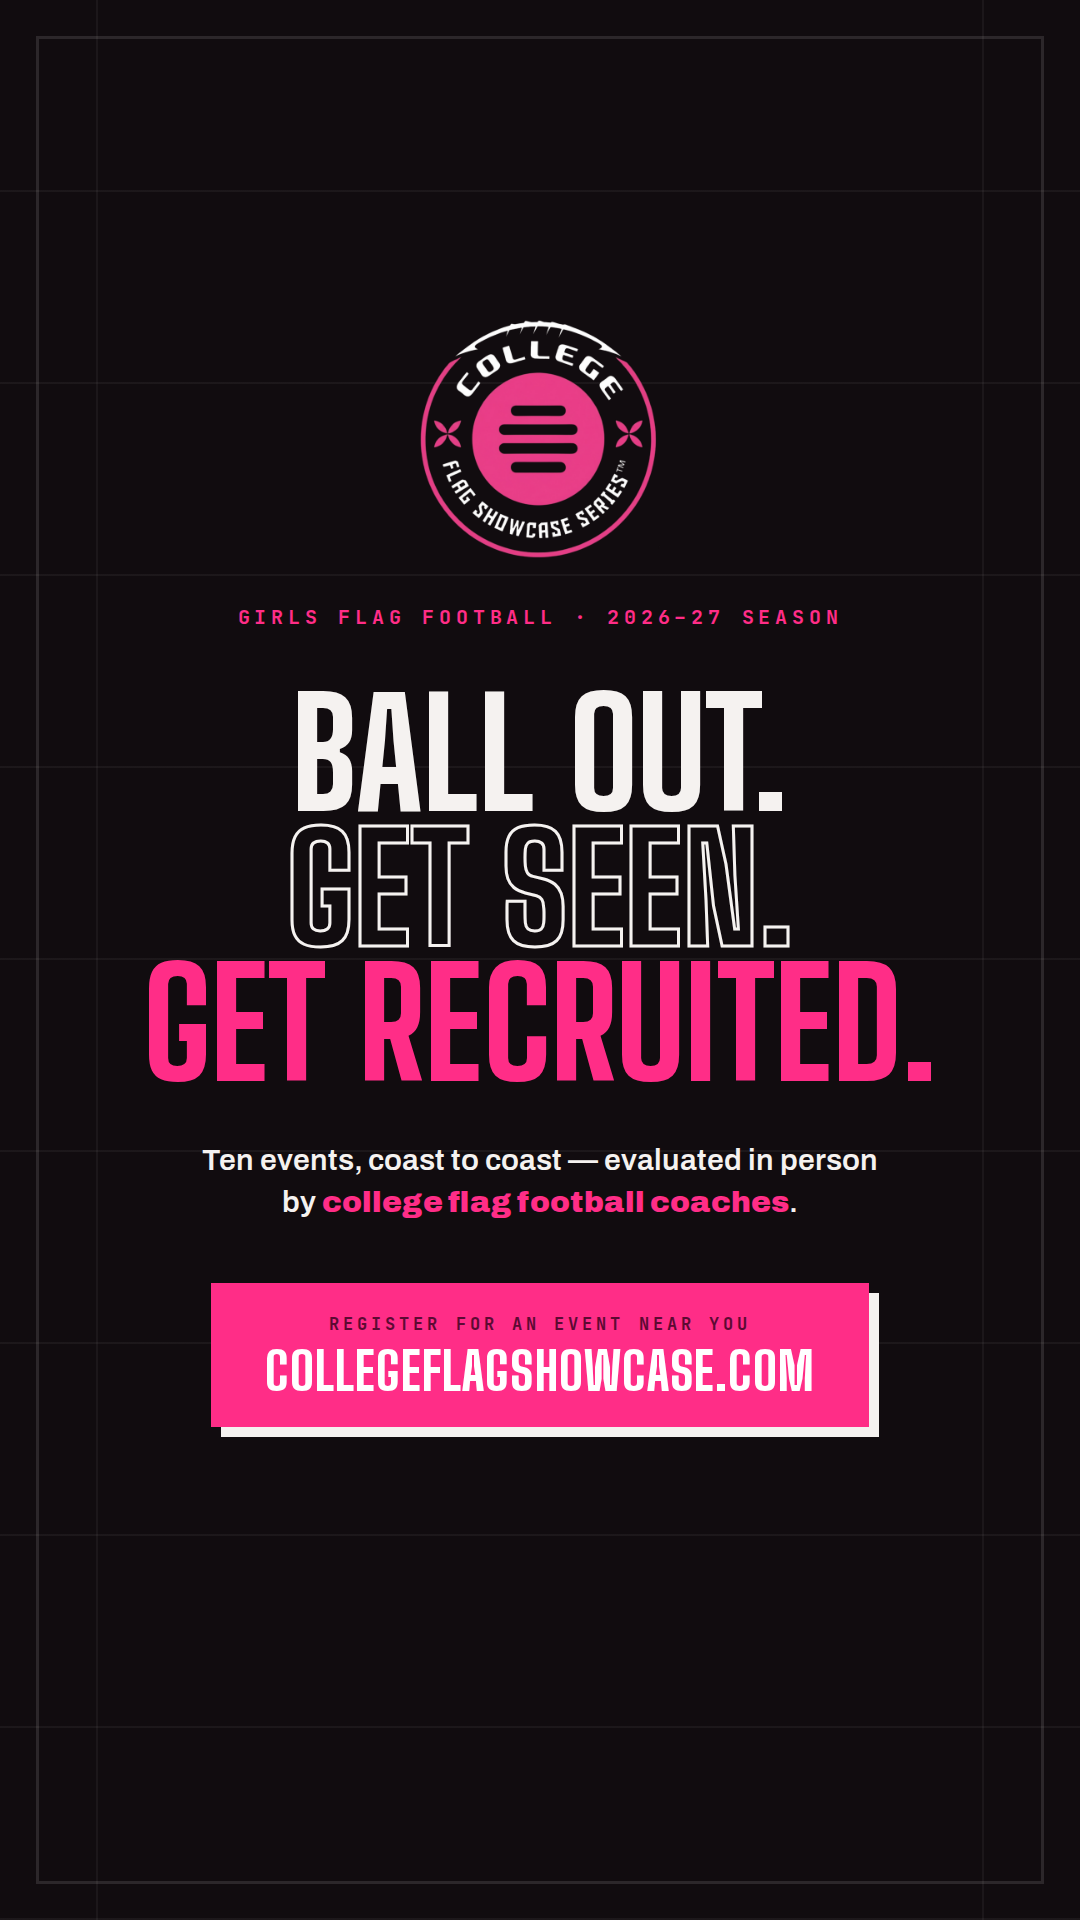
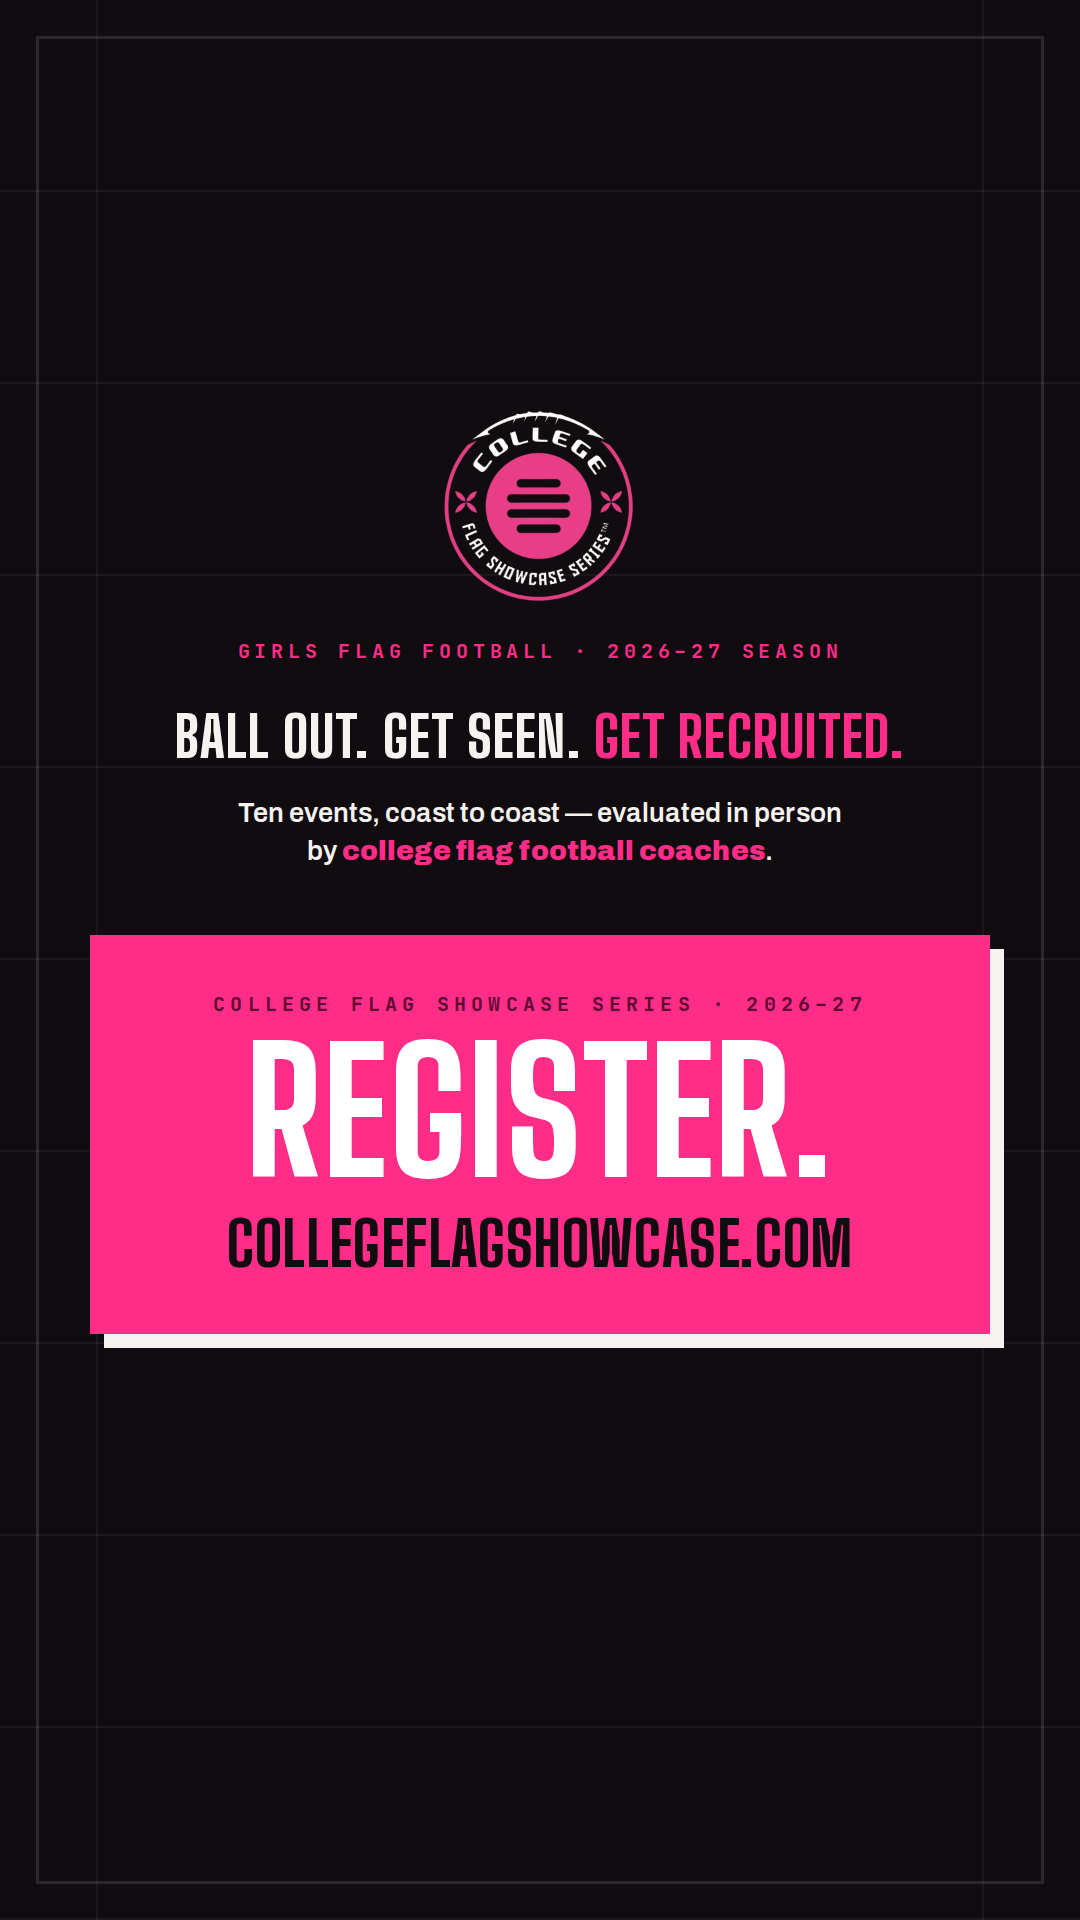
Make the register CTA the focus of the reel closing slide
Claude-Session: https://claude.ai/code/session_019V32boShoBmRrwWenCPJFc

Changed region(s): [[0.0611, 0.1562, 0.9472, 0.75]]

diff --git a/collateral/reel-closing.html b/collateral/reel-closing.html
@@ -31,20 +31,21 @@
 
   .inner{position:absolute;left:0;right:0;top:250px;bottom:430px;display:flex;flex-direction:column;align-items:center;justify-content:center;text-align:center;padding:0 90px}
 
-  .logo{width:250px;height:250px}
-  .kicker{margin-top:40px;font-family:var(--mono);font-size:20px;font-weight:700;letter-spacing:.24em;text-transform:uppercase;color:var(--red);white-space:nowrap}
+  .logo{width:200px;height:200px}
+  .kicker{margin-top:32px;font-family:var(--mono);font-size:20px;font-weight:700;letter-spacing:.24em;text-transform:uppercase;color:var(--red);white-space:nowrap}
 
-  .stack{margin-top:56px;font-family:var(--display);font-weight:800;text-transform:uppercase;line-height:.9;letter-spacing:.01em}
-  .stack .l1{display:block;font-size:150px;color:var(--chalk)}
-  .stack .l2{display:block;font-size:150px;color:transparent;-webkit-text-stroke:3px var(--chalk)}
-  .stack .l3{display:block;font-size:150px;color:var(--red)}
+  .stack{margin-top:44px;font-family:var(--display);font-weight:800;text-transform:uppercase;line-height:1.05;letter-spacing:.02em;font-size:56px}
+  .stack .l1{color:var(--chalk)}
+  .stack .l2{color:var(--chalk)}
+  .stack .l3{color:var(--red)}
 
-  .sub{margin-top:48px;font-size:30px;font-weight:600;color:var(--chalk);line-height:1.4}
+  .sub{margin-top:28px;font-size:27px;font-weight:600;color:var(--chalk);line-height:1.4}
   .sub b{color:var(--red)}
 
-  .cta{margin-top:60px;background:var(--red);box-shadow:10px 10px 0 var(--chalk);padding:30px 54px}
-  .cta .cta-kicker{font-family:var(--mono);font-size:17px;font-weight:700;letter-spacing:.24em;text-transform:uppercase;color:#5C0A33}
-  .cta .cta-url{margin-top:10px;font-family:var(--display);font-size:52px;font-weight:800;text-transform:uppercase;letter-spacing:.02em;color:#fff;line-height:1}
+  .cta{margin-top:64px;background:var(--red);box-shadow:14px 14px 0 var(--chalk);padding:56px 70px 60px;width:900px}
+  .cta .cta-kicker{font-family:var(--mono);font-size:20px;font-weight:700;letter-spacing:.26em;text-transform:uppercase;color:#5C0A33}
+  .cta .cta-big{margin-top:18px;font-family:var(--display);font-size:170px;font-weight:800;text-transform:uppercase;letter-spacing:.01em;color:#fff;line-height:.9}
+  .cta .cta-url{margin-top:26px;font-family:var(--display);font-size:60px;font-weight:800;text-transform:uppercase;letter-spacing:.01em;color:var(--navy);line-height:1}
 </style>
 </head>
 <body>
@@ -55,14 +56,11 @@
   <div class="inner">
     <img class="logo" src="../public/logo.png" alt="College Flag Showcase Series" />
     <p class="kicker">Girls Flag Football &middot; 2026&ndash;27 Season</p>
-    <h1 class="stack">
-      <span class="l1">Ball Out.</span>
-      <span class="l2">Get Seen.</span>
-      <span class="l3">Get Recruited.</span>
-    </h1>
+    <h1 class="stack"><span class="l1">Ball Out.</span> <span class="l2">Get Seen.</span> <span class="l3">Get Recruited.</span></h1>
     <p class="sub">Ten events, coast to coast &mdash; evaluated in person<br />by <b>college flag football coaches</b>.</p>
     <div class="cta">
-      <p class="cta-kicker">Register for an event near you</p>
+      <p class="cta-kicker">College Flag Showcase Series &middot; 2026&ndash;27</p>
+      <p class="cta-big">Register.</p>
       <p class="cta-url">collegeflagshowcase.com</p>
     </div>
   </div>
